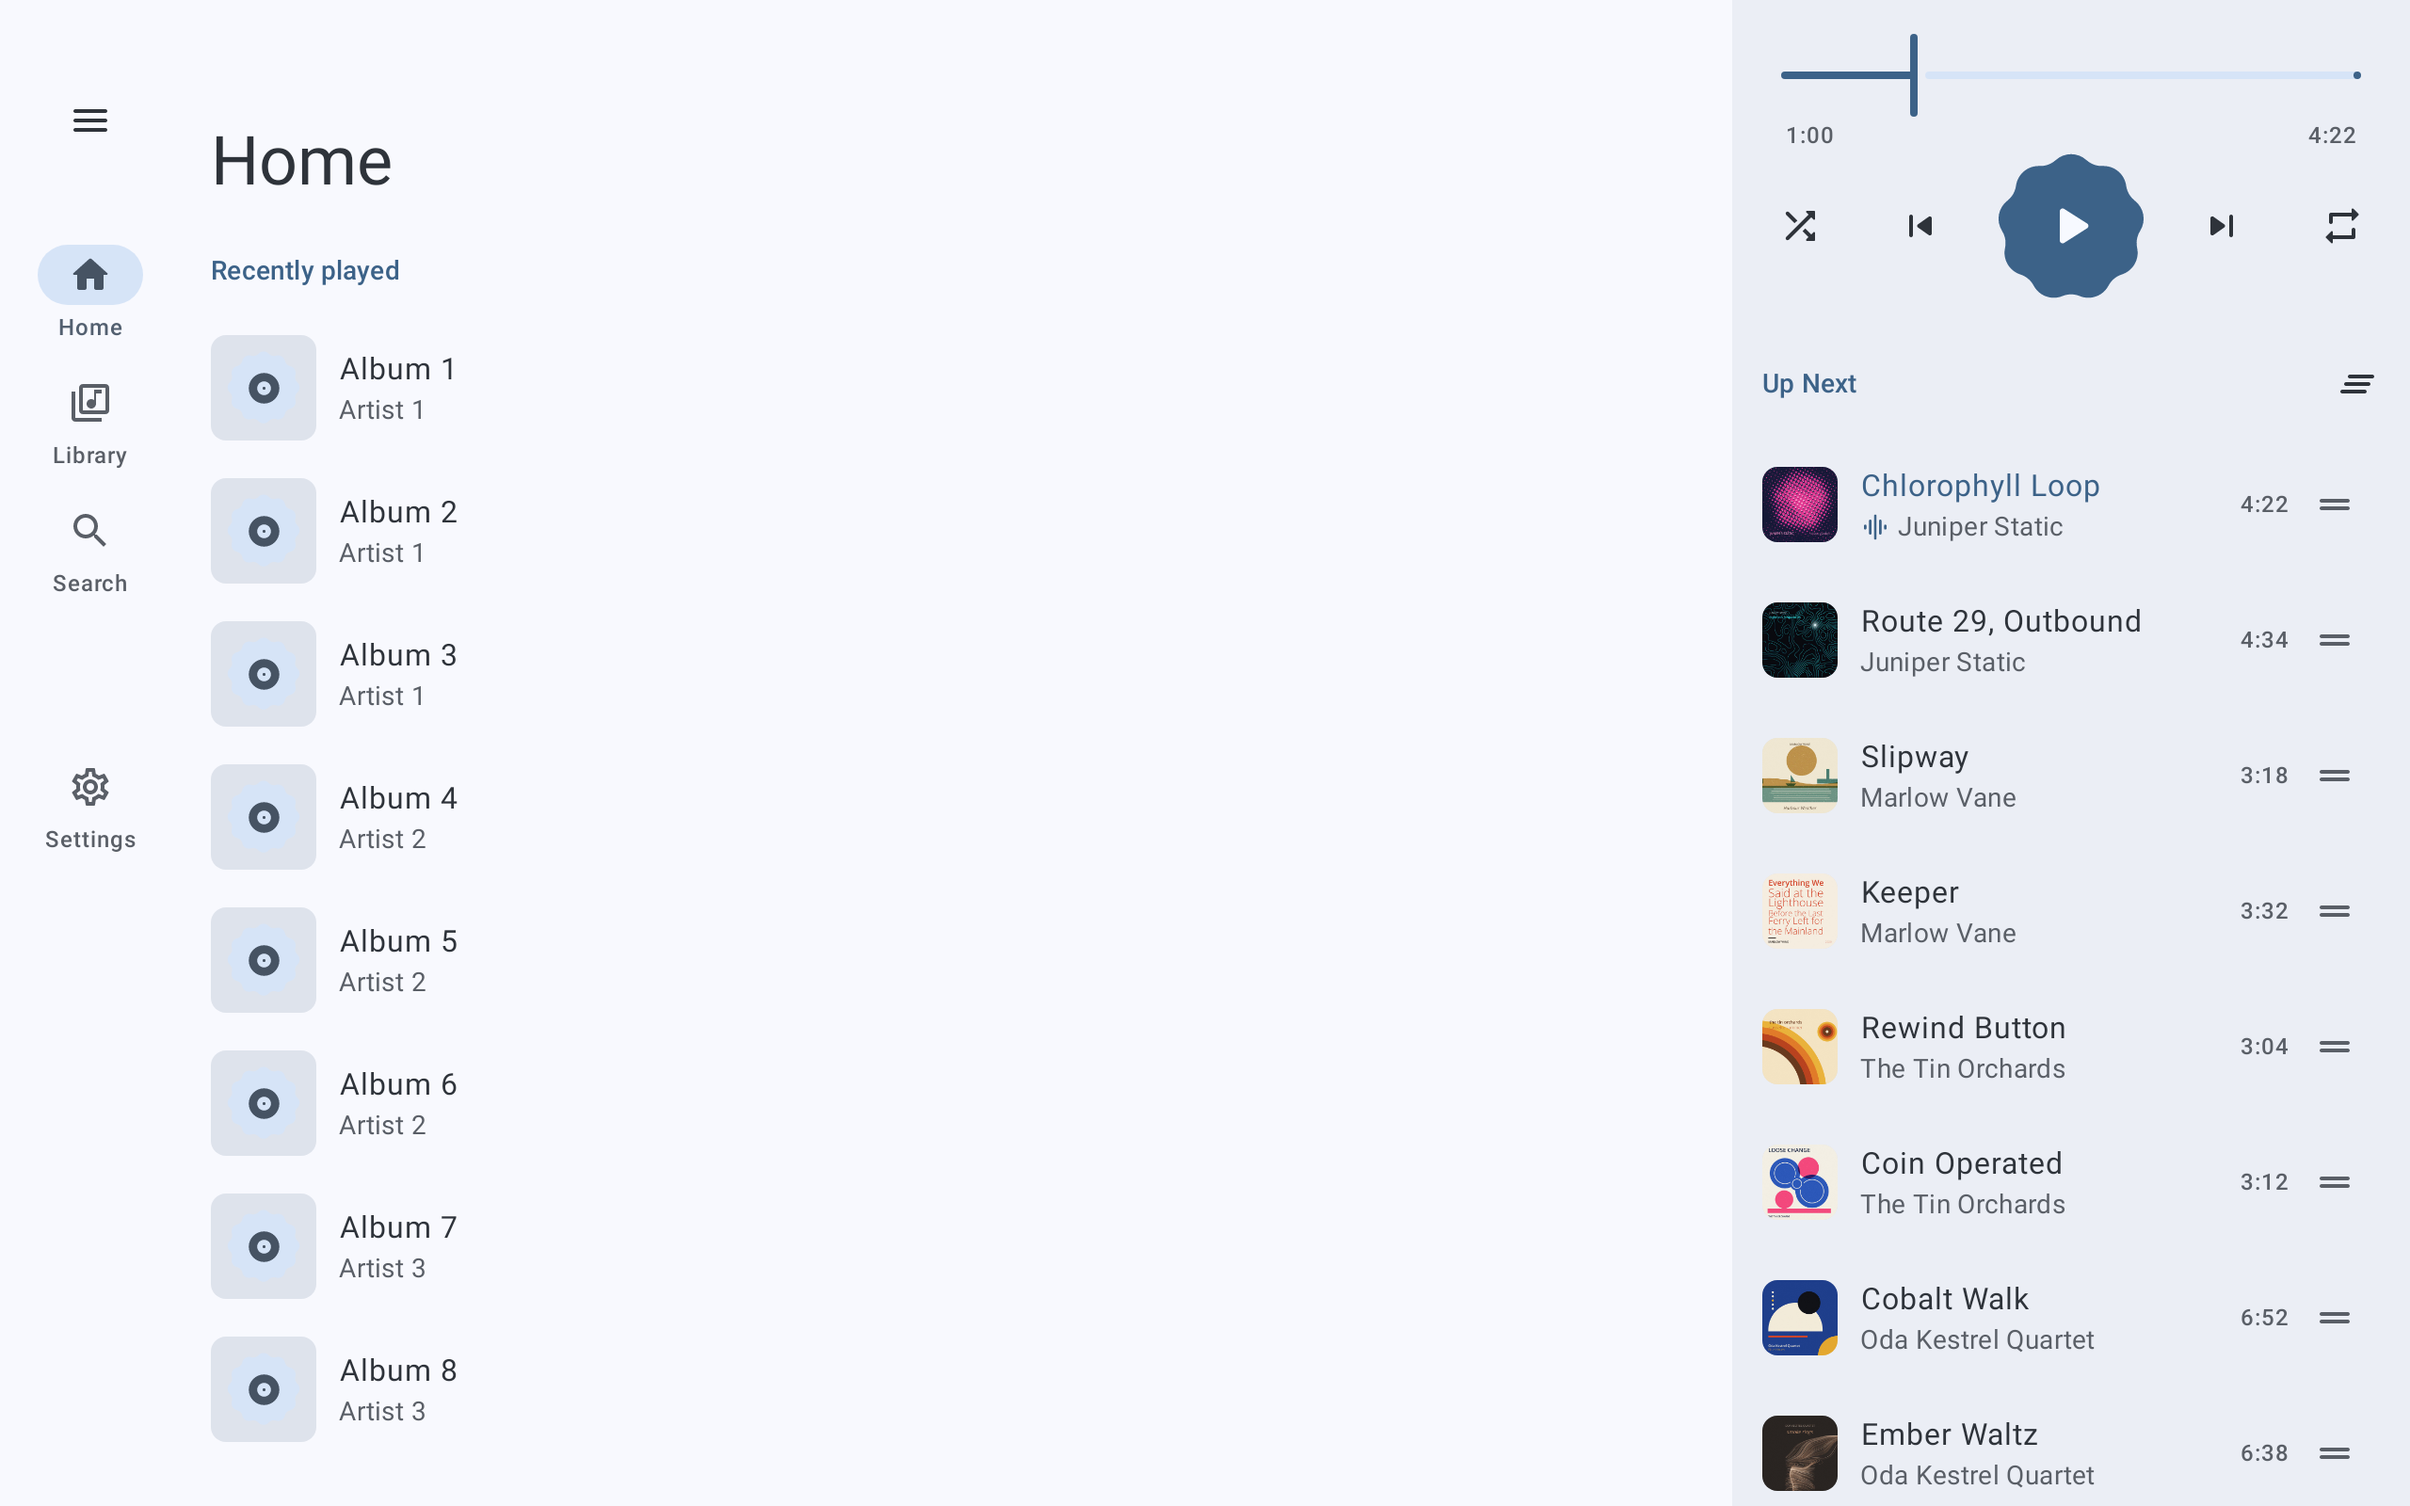
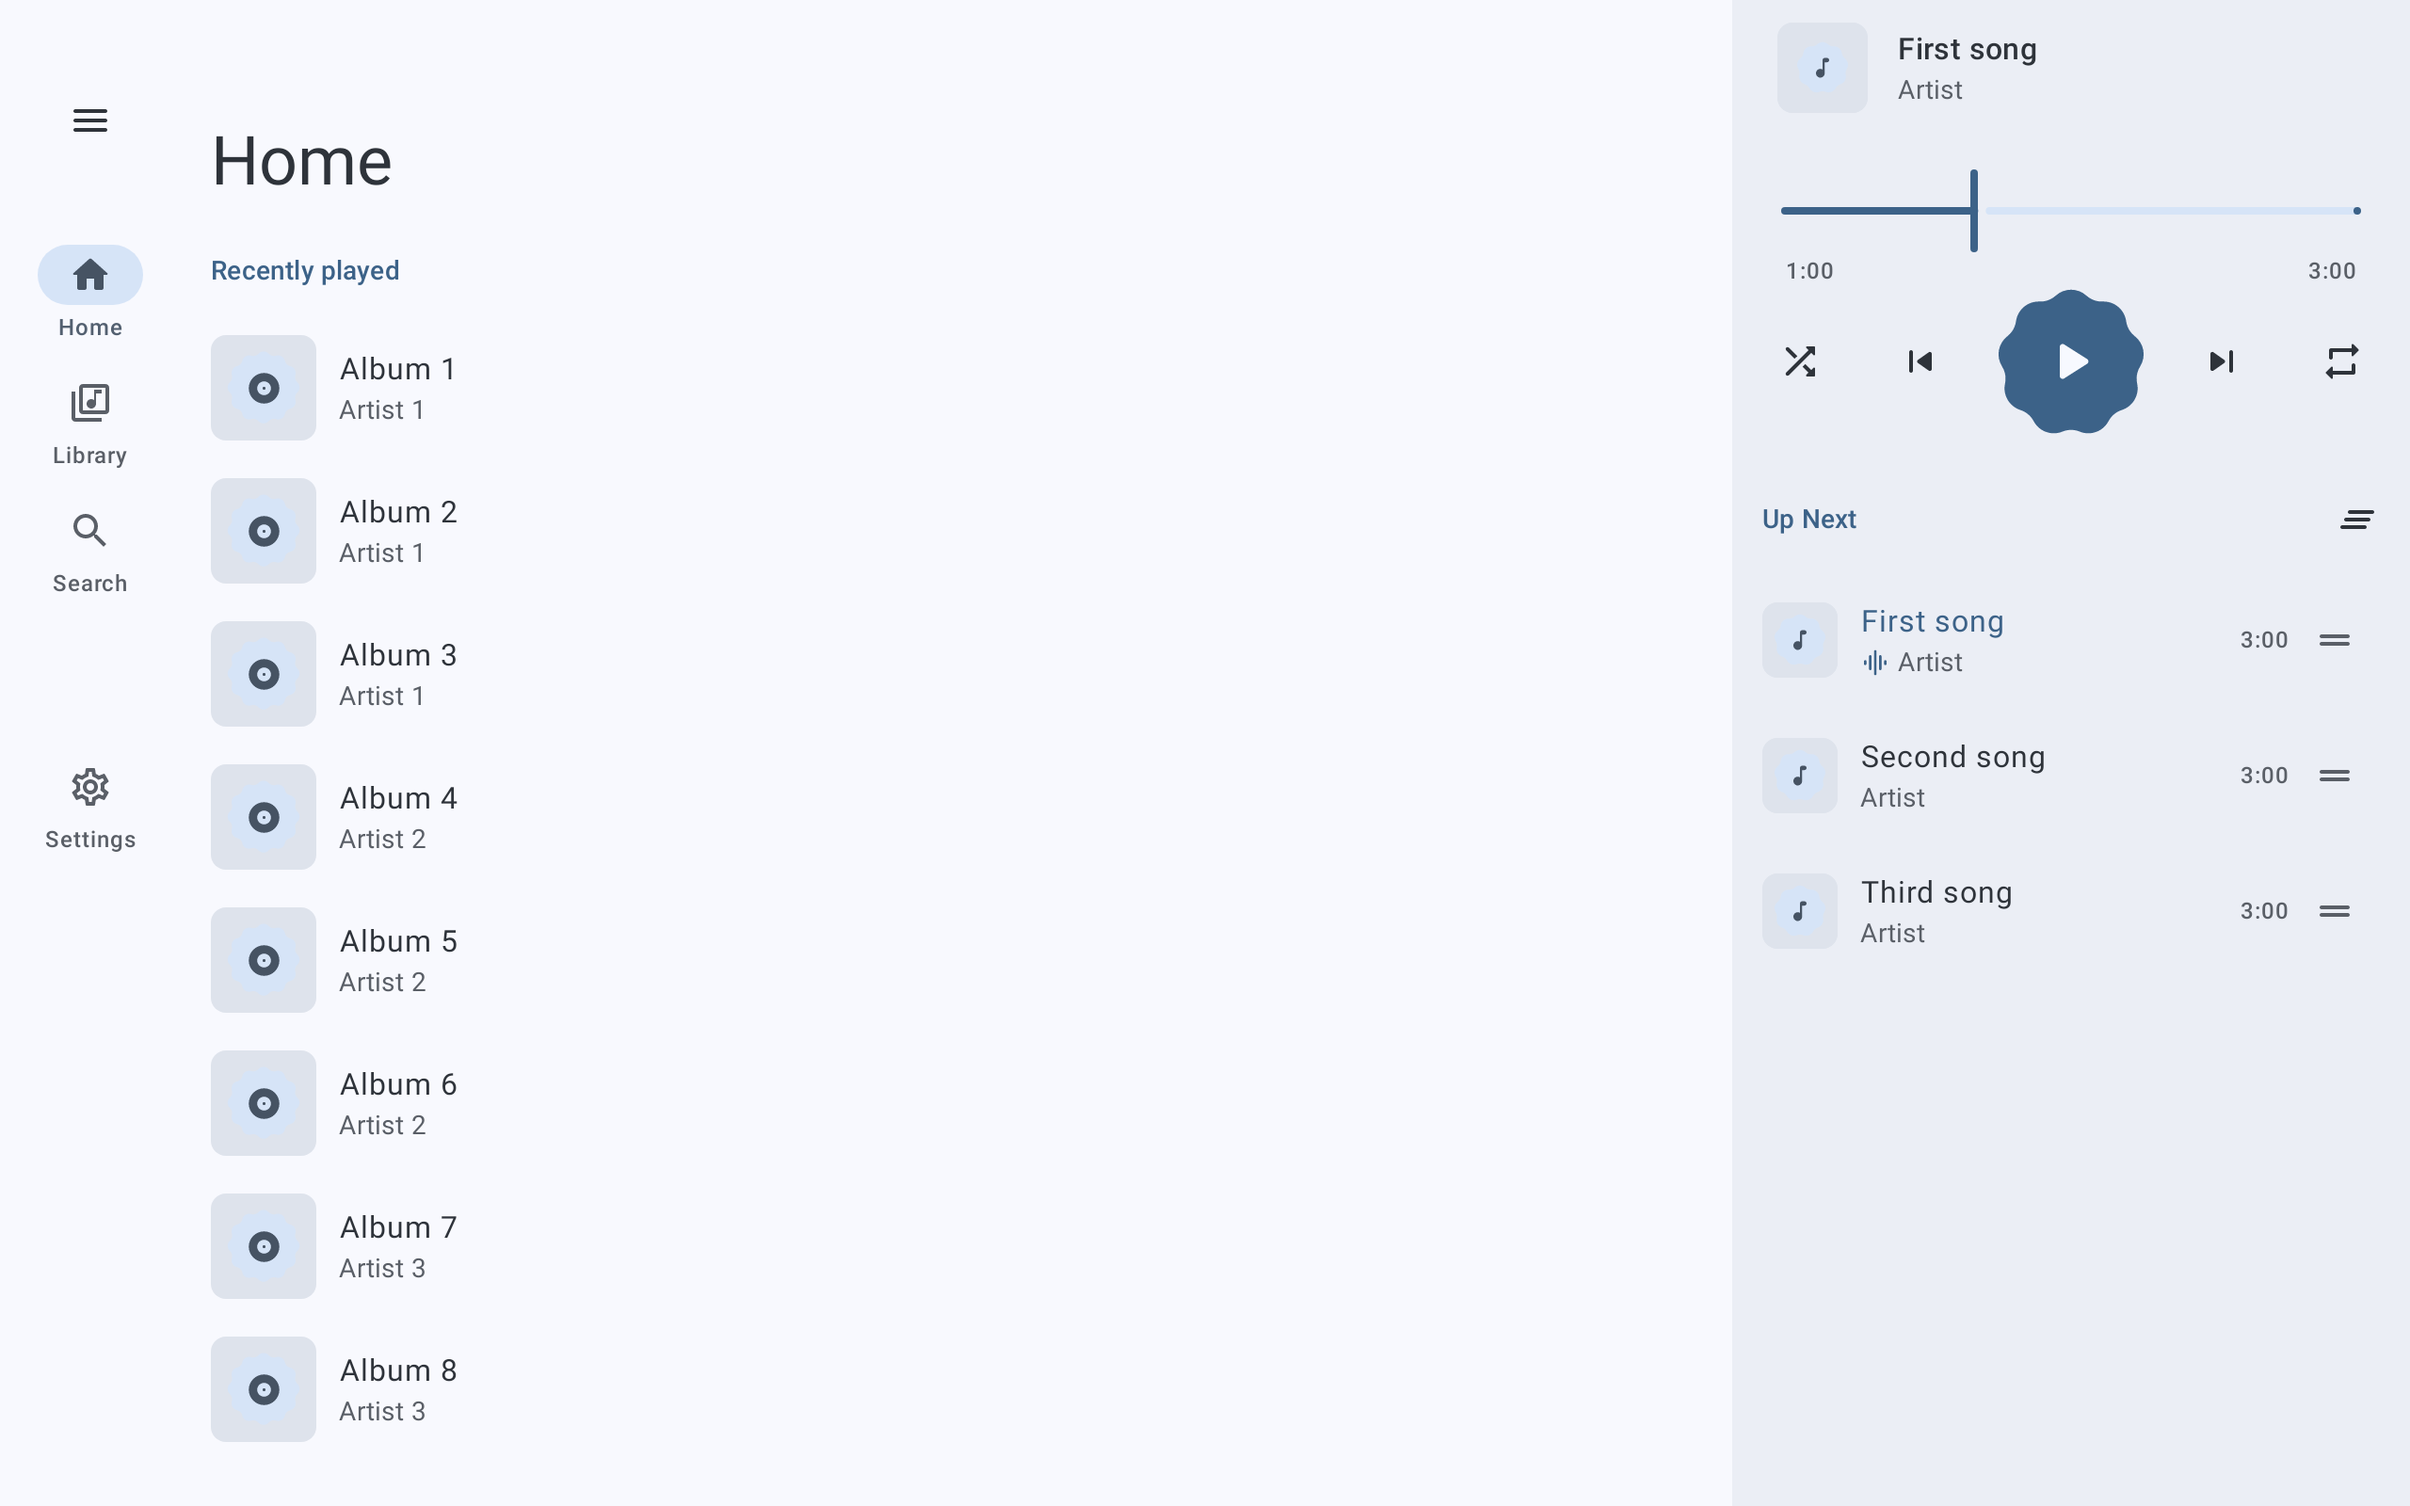
feat(app): show the playing song above the transport in the pane's queue
The wide player pane's Queue level pushed the song off the top, leaving
the transport without a title. It now keeps the artwork, title and artist
above the controls.

Refs #393
Changelog: none

diff --git a/android/app/src/main/java/com/simplecityapps/shuttle/ui/shell/player/PlayerContent.kt b/android/app/src/main/java/com/simplecityapps/shuttle/ui/shell/player/PlayerContent.kt
@@ -44,6 +44,7 @@ import androidx.compose.ui.platform.testTag
 import androidx.compose.ui.semantics.clearAndSetSemantics
 import androidx.compose.ui.unit.Constraints
 import androidx.compose.ui.unit.Density
+import androidx.compose.ui.unit.Dp
 import androidx.compose.ui.unit.dp
 import com.simplecityapps.shuttle.designsystem.component.Artwork
 import com.simplecityapps.shuttle.designsystem.component.ArtworkPlaceholder
@@ -64,15 +65,22 @@ val QueuePeekHeight = 56.dp
 /** Height of the seek bar and transport controls, which stay visible above the queue at the Queue level. */
 val TransportHeight = 176.dp
 
+/** Height of the song row the player pane keeps above the transport at the Queue level. */
+val QueueHeadSongHeight = 72.dp
+
+/** The head that stays above the queue at the Queue level: the transport, under the song row where there is one. */
+internal fun queueHeadHeight(withSong: Boolean): Dp = if (withSong) TransportHeight + QueueHeadSongHeight else TransportHeight
+
 /**
  * How far the Queue level pushes a stacked player up: from the peek at the bottom to just below
- * the transport row, which stays as the compact head under the status bar. In px.
+ * the head, which stays under the status bar. In px.
  */
 internal fun Density.stackedQueueTravel(
     height: Float,
     statusBarTop: Int,
     navigationBarBottom: Int,
-): Float = (height - statusBarTop - TransportHeight.toPx() - QueuePeekHeight.toPx() - navigationBarBottom).coerceAtLeast(0f)
+    headHeight: Dp = TransportHeight,
+): Float = (height - statusBarTop - headHeight.toPx() - QueuePeekHeight.toPx() - navigationBarBottom).coerceAtLeast(0f)
 
 internal object PlayerTestTags {
     const val Sheet = "player_sheet"
@@ -82,11 +90,14 @@ internal object PlayerTestTags {
     const val QueueList = "player_queue_list"
     const val Scrim = "player_scrim"
     const val Pane = "player_pane"
+    const val QueueHeadSong = "player_queue_head_song"
 }
 
 /**
  * The compact sheet's Now Playing and queue: a rigid column that the Queue level pushes up by the
- * queue travel, leaving the transport row as the compact head above the queue list.
+ * queue travel, leaving the transport row as the compact head above the queue list. With
+ * [songInQueueHead] (the pane, which has the height) a song row fades in above the transport there,
+ * so the head still says what is playing; the travel must leave room for it ([queueHeadHeight]).
  */
 @Composable
 internal fun StackedPlayer(
@@ -99,6 +110,7 @@ internal fun StackedPlayer(
     onCollapse: () -> Unit,
     onShowQueue: () -> Unit,
     modifier: Modifier = Modifier,
+    songInQueueHead: Boolean = false,
 ) {
     // Faded-out layers leave the semantics tree, so TalkBack (and UI drivers) reach only what shows.
     val nowPlayingShown by remember(geometry, offset) { derivedStateOf { geometry().nowPlayingAlpha(offset()) > 0f } }
@@ -132,11 +144,22 @@ internal fun StackedPlayer(
             }
             Spacer(Modifier.windowInsetsPadding(WindowInsets.navigationBars).height(QueuePeekHeight))
         }
+        // Composed only while the queue shows, so at Now Playing it can't take the header's taps.
+        if (songInQueueHead && queueShown) {
+            QueueHeadSong(
+                player = player,
+                onClick = onShowQueue,
+                modifier = Modifier
+                    .windowInsetsPadding(WindowInsets.statusBars)
+                    .height(QueueHeadSongHeight)
+                    .graphicsLayer { alpha = geometry().queue(offset()) },
+            )
+        }
         Column(
             modifier = Modifier
                 .fillMaxSize()
                 .windowInsetsPadding(WindowInsets.statusBars)
-                .padding(top = TransportHeight)
+                .padding(top = queueHeadHeight(songInQueueHead))
                 .hiddenFromSemantics(!nowPlayingShown)
                 .graphicsLayer {
                     alpha = geometry().nowPlayingAlpha(offset())

diff --git a/android/app/src/main/java/com/simplecityapps/shuttle/ui/shell/player/NowPlaying.kt b/android/app/src/main/java/com/simplecityapps/shuttle/ui/shell/player/NowPlaying.kt
@@ -2,6 +2,7 @@ package com.simplecityapps.shuttle.ui.shell.player
 
 import android.text.format.DateUtils
 import android.view.ContextThemeWrapper
+import androidx.compose.foundation.clickable
 import androidx.compose.foundation.layout.Arrangement
 import androidx.compose.foundation.layout.Box
 import androidx.compose.foundation.layout.Column
@@ -34,6 +35,7 @@ import androidx.compose.runtime.setValue
 import androidx.compose.ui.Alignment
 import androidx.compose.ui.Modifier
 import androidx.compose.ui.graphics.toArgb
+import androidx.compose.ui.platform.testTag
 import androidx.compose.ui.res.stringResource
 import androidx.compose.ui.text.style.TextOverflow
 import androidx.compose.ui.unit.dp
@@ -159,6 +161,33 @@ internal fun NowPlayingTitle(
             onCheckedChange = { actions.toggleFavourite() },
             enabled = current != null,
         )
+    }
+}
+
+/** The playing song's artwork, title and artist as one row: the pane's head over the queue. Tapping it goes back to Now Playing. */
+@Composable
+internal fun QueueHeadSong(
+    player: PlayerUiState,
+    onClick: () -> Unit,
+    modifier: Modifier = Modifier,
+) {
+    val current = player.current ?: return
+    Row(
+        modifier = modifier
+            .fillMaxWidth()
+            .testTag(PlayerTestTags.QueueHeadSong)
+            .clickable(onClickLabel = stringResource(R.string.player_now_playing), onClick = onClick)
+            .padding(horizontal = 24.dp),
+        verticalAlignment = Alignment.CenterVertically,
+        horizontalArrangement = Arrangement.spacedBy(16.dp),
+    ) {
+        SongArtwork(current.song, Modifier.size(48.dp))
+        Column(Modifier.weight(1f)) {
+            Text(text = current.title, style = MaterialTheme.typography.titleMedium, maxLines = 1, overflow = TextOverflow.Ellipsis)
+            current.artist?.let { artist ->
+                Text(text = artist, style = MaterialTheme.typography.bodyMedium, color = MaterialTheme.colorScheme.onSurfaceVariant, maxLines = 1, overflow = TextOverflow.Ellipsis)
+            }
+        }
     }
 }
 

diff --git a/android/app/src/main/java/com/simplecityapps/shuttle/ui/shell/player/PlayerPane.kt b/android/app/src/main/java/com/simplecityapps/shuttle/ui/shell/player/PlayerPane.kt
@@ -64,7 +64,7 @@ internal fun PlayerPane(
                             height = height,
                             navBarHeight = 0f,
                             miniHeight = MiniPlayerHeight.toPx(),
-                            queueTravel = stackedQueueTravel(height, statusBarTop, navigationBarBottom),
+                            queueTravel = stackedQueueTravel(height, statusBarTop, navigationBarBottom, queueHeadHeight(withSong = true)),
                         )
                     }
                 }
@@ -79,6 +79,7 @@ internal fun PlayerPane(
                     onShowQueue = {
                         scope.launch { state.moveTo(if (state.level == PlayerLevel.Queue) PlayerLevel.NowPlaying else PlayerLevel.Queue) }
                     },
+                    songInQueueHead = true,
                 )
             }
         }

diff --git a/android/app/src/test/java/com/simplecityapps/shuttle/ui/shell/AppShellRobot.kt b/android/app/src/test/java/com/simplecityapps/shuttle/ui/shell/AppShellRobot.kt
@@ -328,6 +328,21 @@ class AppShellRobot(
         rule.onNodeWithTag(PlayerTestTags.Sheet).assertExists()
     }
 
+    /** The pane's song row over the queue: in the semantics tree, holding the playing song, only at the Queue level. */
+    fun assertQueueHeadSong(shown: Boolean) {
+        val node = rule.onNodeWithTag(PlayerTestTags.QueueHeadSong)
+        if (shown) {
+            node.assertIsDisplayed().assert(hasText("First song"))
+        } else {
+            node.assertDoesNotExist()
+        }
+    }
+
+    fun tapQueueHeadSong() {
+        rule.onNodeWithTag(PlayerTestTags.QueueHeadSong).performClick()
+        rule.waitForIdle()
+    }
+
     fun assertPaneShown() {
         rule.onNodeWithTag(PlayerTestTags.Pane).assertIsDisplayed()
     }

diff --git a/android/app/src/test/java/com/simplecityapps/shuttle/ui/shell/AppShellTest.kt b/android/app/src/test/java/com/simplecityapps/shuttle/ui/shell/AppShellTest.kt
@@ -170,6 +170,21 @@ class AppShellTest {
     }
 
     @Test
+    @Config(qualifiers = "w1280dp-h900dp")
+    fun `the pane's queue keeps the playing song above the transport, and tapping it goes back to Now Playing`() {
+        robot.setContent(window = PaneWindow)
+        robot.tapMiniPlayer()
+        robot.assertQueueHeadSong(shown = false)
+
+        robot.tapQueuePeek()
+        robot.assertQueueHeadSong(shown = true)
+
+        robot.tapQueueHeadSong()
+        robot.assertQueueHeadSong(shown = false)
+        robot.assertTextDisplayed("Now playing")
+    }
+
+    @Test
     fun `now playing plays and pauses, skips and seeks`() {
         robot.setContent()
         robot.tapMiniPlayer()
